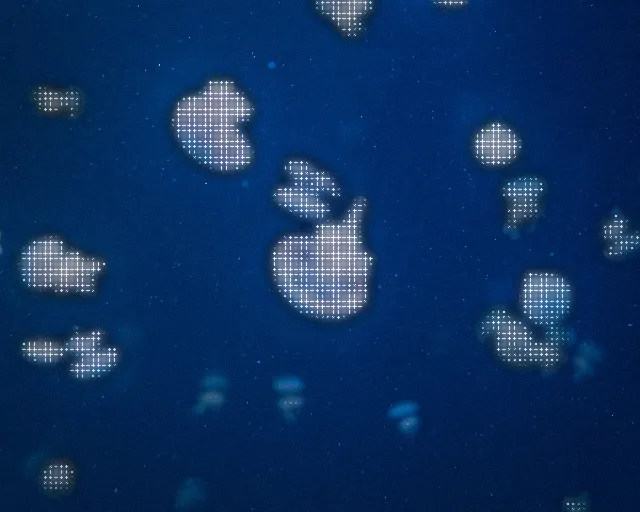
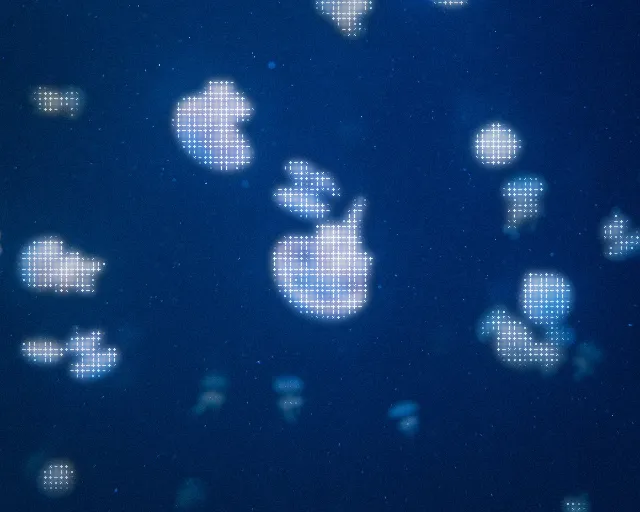
Lower near-glyph dim to 0.2, drop near-glyph blur from sharp-ascii, and set soft-ascii blur to 9

diff --git a/src/engine/params.ts b/src/engine/params.ts
@@ -164,26 +164,26 @@ export const DEFAULTS: Params = {
 export const PRESETS: Record<string, { description: string; params: Partial<Params> }> = {
   'soft-ascii': {
     description: 'Glowing ASCII on the highlights, over a softened copy of the photo',
-    params: { style: 'characters', cellSize: 14, threshold: 0.32, bgBlur: 3, bgOpacity: 1, haloBlur: 14, bloom: 0.6, vignette: 0.2 },
+    params: { style: 'characters', cellSize: 14, threshold: 0.32, bgBlur: 3, bgOpacity: 1, haloBlur: 9, bloom: 0.6, vignette: 0.2 },
   },
   'sharp-ascii': {
-    description: 'Glowing ASCII on the highlights of the sharp photo, softened and dimmed only around the glyphs',
-    params: { style: 'characters', cellSize: 14, threshold: 0.32, bgBlur: 0, bgOpacity: 1, haloBlur: 14, haloDim: 0.45, bloom: 0.6, vignette: 0.2 },
+    description: 'Glowing ASCII on the highlights of the sharp photo, dimmed only around the glyphs',
+    params: { style: 'characters', cellSize: 14, threshold: 0.32, bgBlur: 0, bgOpacity: 1, haloDim: 0.2, bloom: 0.6, vignette: 0.2 },
   },
   cross: {
     description: 'Cross-stitch "+" and "×" marks that grow with brightness',
-    params: { style: 'cross', cellSize: 16, threshold: 0.28, strokeWidth: 0.1, bgBlur: 0, bgOpacity: 1, haloBlur: 14, haloDim: 0.45, glyphTint: 0.3, glyphBoost: 1.5, bloom: 0.6 },
+    params: { style: 'cross', cellSize: 16, threshold: 0.28, strokeWidth: 0.1, bgBlur: 0, bgOpacity: 1, haloBlur: 14, haloDim: 0.2, glyphTint: 0.3, glyphBoost: 1.5, bloom: 0.6 },
   },
   diagonal: {
     description: 'Hatched slashes that follow the image edges, warm film look',
     params: {
       style: 'diagonal', cellSize: 12, threshold: 0.25, strokeWidth: 0.09, diagonalMode: 'edge', bgBlur: 0,
-      bgOpacity: 1, haloBlur: 14, haloDim: 0.45, glyphTint: 0.35, glyphBoost: 1.5, bloom: 0.4, vignette: 0.25, grain: 0.06,
+      bgOpacity: 1, haloBlur: 14, haloDim: 0.2, glyphTint: 0.35, glyphBoost: 1.5, bloom: 0.4, vignette: 0.25, grain: 0.06,
     },
   },
   dots: {
     description: 'Halftone dots that scale with brightness',
-    params: { style: 'dots', cellSize: 12, threshold: 0.12, bgBlur: 0, bgOpacity: 1, haloBlur: 14, haloDim: 0.45, glyphTint: 0.2, bloom: 0.3 },
+    params: { style: 'dots', cellSize: 12, threshold: 0.12, bgBlur: 0, bgOpacity: 1, haloBlur: 14, haloDim: 0.2, glyphTint: 0.2, bloom: 0.3 },
   },
   'full-ascii': {
     description: 'Classic ASCII art: every cell becomes a character, in the source colors on black',

diff --git a/README.md b/README.md
@@ -112,7 +112,7 @@ Press `\` (or the split button) for a before/after divider you can drag, or hold
 | Preset | Look |
 | --- | --- |
 | `soft-ascii` | Glowing ASCII on the highlights, over a softened copy of the photo |
-| `sharp-ascii` | The same over the sharp photo, softened and dimmed only around the glyphs |
+| `sharp-ascii` | The same over the sharp photo, dimmed only around the glyphs |
 | `cross` | Cross-stitch `+` and `×` marks that grow with brightness |
 | `diagonal` | Hatched slashes that follow the edges, warm film look |
 | `dots` | Halftone dots that scale with brightness |
@@ -156,7 +156,7 @@ Glyph styles draw over a copy of the photo:
 
 - **Opacity** fades the whole photo toward the **Fill color** (black by default); 0 leaves only the fill.
 - **Blur** softens the whole photo.
-- **Dim near glyphs** and **Blur near glyphs** do the same only around the glyphs, so the glyphs stand out while the rest of the photo stays bright and sharp. **Spread** sets how far around the glyphs that reaches, in cells. Combine them freely: blur alone gives a glowing look, dim alone a dark outline, both a soft shadow. The highlight presets (`sharp-ascii`, `cross`, `diagonal`, `dots`) use both, at blur 14 and dim 0.45, with the photo otherwise at full opacity; `soft-ascii` uses the blur only.
+- **Dim near glyphs** and **Blur near glyphs** do the same only around the glyphs, so the glyphs stand out while the rest of the photo stays bright and sharp. **Spread** sets how far around the glyphs that reaches, in cells. Combine them freely: blur alone gives a glowing look, dim alone a dark outline, both a soft shadow. The `cross`, `diagonal` and `dots` presets use both, at blur 14 and dim 0.2, with the photo otherwise at full opacity; `sharp-ascii` uses only the dim (0.2) and `soft-ascii` only the blur (9).
 
 ## Effects
 
